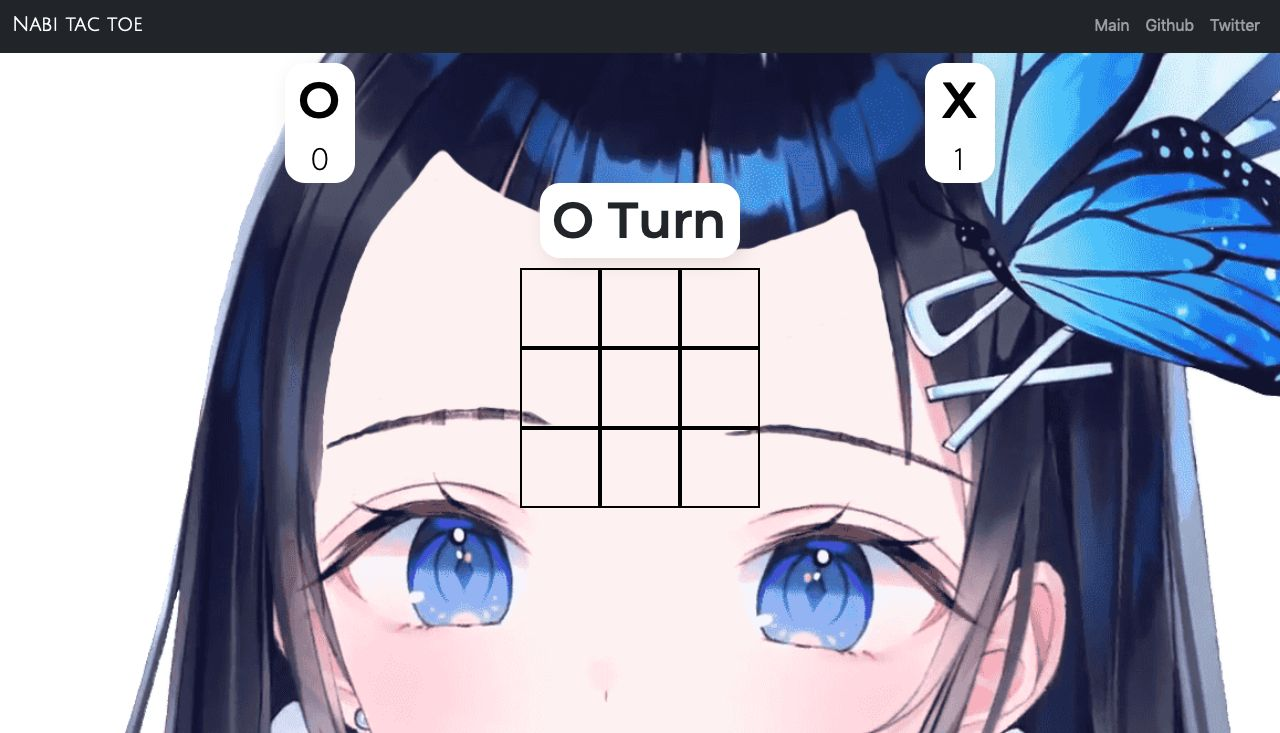
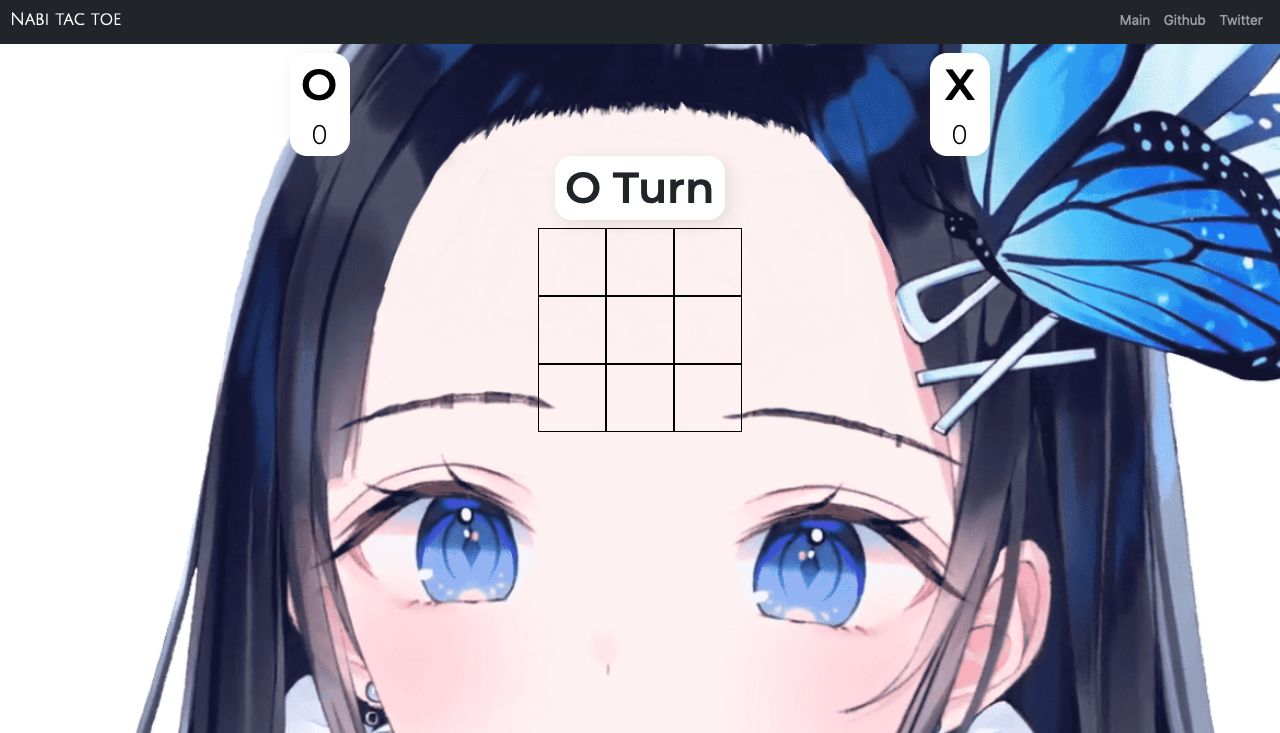
스샷 변경

diff --git a/README.md b/README.md
@@ -5,6 +5,9 @@
 
 [Montserrat](https://fonts.google.com/specimen/Montserrat?query=Montserrat) 폰트와 [Julius Sans One](https://fonts.google.com/specimen/Julius+Sans+One?query=Julius) 폰트를 사용했습니다.
 
+### Contributors
+모바일 CSS 수정해주신 [VicNabi](https://twitter.com/VicNabi) 님
+
 ### ScreenShot
 
 ![Nabi Tac Toe](screenshot.jpg)
